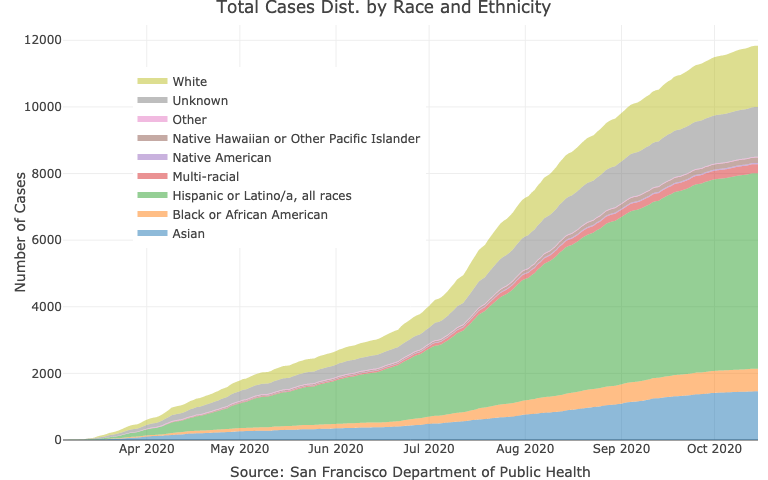
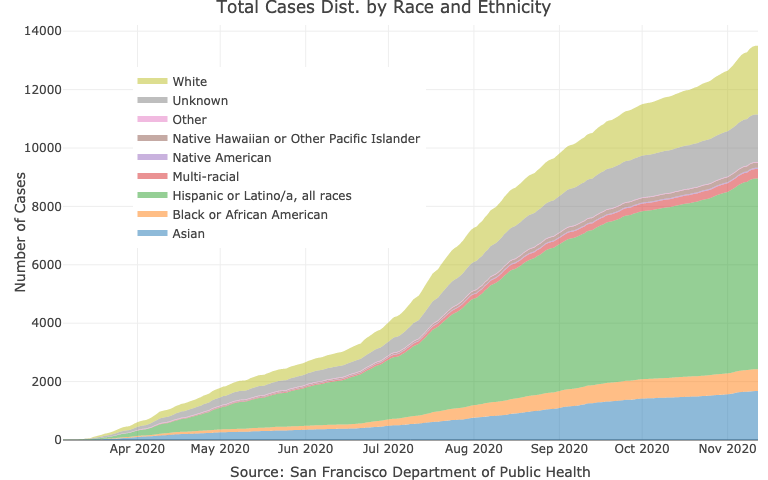
update the readme

diff --git a/README.md b/README.md
@@ -17,19 +17,19 @@ commit](https://img.shields.io/github/last-commit/RamiKrispin/covid19sf)](https:
 The covid19sf package provides a daily summary of the covid19 cases in
 San Francisco. The package includes the following datasets:
 
-  - `covid19sf_age` - Cases summarized by age group
-  - `covid19sf_demo` - Cases summarized by date, transmission and case
+-   `covid19sf_age` - Cases summarized by age group
+-   `covid19sf_demo` - Cases summarized by date, transmission and case
     disposition
-  - `covid19sf_gender` - Confirmed cases summarized by gender
-  - `covid19sf_geo` - Confirmed cases and deaths summarized by geography
-  - `covid19sf_homeless` - Confirmed cases by homelessness
-  - `covid19sf_hospital` - Hospital capacity data
-  - `covid19sf_hospitalizations` - Hospitalizations data
-  - `covid19sf_housing` - Alternative housing sites
-  - `covid19sf_summary` - Cases summarized by date, transmission and
+-   `covid19sf_gender` - Confirmed cases summarized by gender
+-   `covid19sf_geo` - Confirmed cases and deaths summarized by geography
+-   `covid19sf_homeless` - Confirmed cases by homelessness
+-   `covid19sf_hospital` - Hospital capacity data
+-   `covid19sf_hospitalizations` - Hospitalizations data
+-   `covid19sf_housing` - Alternative housing sites
+-   `covid19sf_summary` - Cases summarized by date, transmission and
     case disposition
-  - `covid19sf_test_loc` - Testing locations
-  - `covid19sf_tests` - Daily number of tests
+-   `covid19sf_test_loc` - Testing locations
+-   `covid19sf_tests` - Daily number of tests
 
 **Data soucre:** San Francisco, Department of Public Health - Population
 Health Division through the San Francisco [Opne Data protal
@@ -65,12 +65,12 @@ data(covid19sf_age)
 
 head(covid19sf_age)
 #>   specimen_collection_date age_group new_confirmed_cases cumulative_confirmed_cases        last_updated
-#> 1               2020-03-12     51-60                   2                          6 2020-10-16 14:15:02
-#> 2               2020-03-13     51-60                   3                          9 2020-10-16 14:15:02
-#> 3               2020-03-14     51-60                   1                         10 2020-10-16 14:15:02
-#> 4               2020-03-15     51-60                   0                         10 2020-10-16 14:15:02
-#> 5               2020-03-16     51-60                   8                         18 2020-10-16 14:15:02
-#> 6               2020-03-17     51-60                   3                         21 2020-10-16 14:15:02
+#> 1               2020-03-12     51-60                   2                          6 2020-11-13 14:15:03
+#> 2               2020-03-13     51-60                   3                          9 2020-11-13 14:15:03
+#> 3               2020-03-14     51-60                   1                         10 2020-11-13 14:15:03
+#> 4               2020-03-15     51-60                   0                         10 2020-11-13 14:15:03
+#> 5               2020-03-16     51-60                   8                         18 2020-11-13 14:15:03
+#> 6               2020-03-17     51-60                   3                         21 2020-11-13 14:15:03
 ```
 
 The following box-plot shows the distribution of the positive cases by
@@ -100,7 +100,7 @@ layout(title = "Case Dist. by Age Group",
 
 <img src="man/figures/age_dist1.png" width="100%" />
 
-Here is the overall distribution of cases by age group as of 2020-10-15:
+Here is the overall distribution of cases by age group as of 2020-11-12:
 
 ``` r
 library(dplyr)
@@ -131,12 +131,12 @@ data(covid19sf_tests)
 
 head(covid19sf_tests)
 #>   specimen_collection_date tests pos        pct neg indeterminate        last_updated
-#> 1               2020-02-28     2   0 0.00000000   2             0 2020-10-16 14:15:00
-#> 2               2020-03-01     2   0 0.00000000   2             0 2020-10-16 14:15:00
-#> 3               2020-03-02     2   0 0.00000000   2             0 2020-10-16 14:15:00
-#> 4               2020-03-03     7   2 0.28571429   5             0 2020-10-16 14:15:00
-#> 5               2020-03-04    11   0 0.00000000  11             0 2020-10-16 14:15:00
-#> 6               2020-03-05    19   6 0.31578947  13             0 2020-10-16 14:15:00
+#> 1               2020-02-28     2   0 0.00000000   2             0 2020-11-13 14:15:00
+#> 2               2020-03-01     2   0 0.00000000   2             0 2020-11-13 14:15:00
+#> 3               2020-03-02     2   0 0.00000000   2             0 2020-11-13 14:15:00
+#> 4               2020-03-03     8   2 0.25000000   6             0 2020-11-13 14:15:00
+#> 5               2020-03-04    12   0 0.00000000  12             0 2020-11-13 14:15:00
+#> 6               2020-03-05    23   6 0.26086957  17             0 2020-11-13 14:15:00
 ```
 
 The plot below shows the daily distribution of the results of the tests:
@@ -170,12 +170,12 @@ data(covid19sf_demo)
 
 head(covid19sf_demo)
 #>   specimen_collection_date race_ethnicity new_confirmed_cases cumulative_confirmed_cases        last_updated
-#> 1               2020-04-20          Asian                   4                        208 2020-10-16 14:15:02
-#> 2               2020-04-21          Asian                   5                        213 2020-10-16 14:15:02
-#> 3               2020-06-04          Asian                   5                        361 2020-10-16 14:15:02
-#> 4               2020-06-05          Asian                   2                        363 2020-10-16 14:15:02
-#> 5               2020-06-06          Asian                   1                        364 2020-10-16 14:15:02
-#> 6               2020-06-07          Asian                   0                        364 2020-10-16 14:15:02
+#> 1               2020-05-19          Asian                   0                        312 2020-11-13 14:15:03
+#> 2               2020-05-31          Asian                   5                        348 2020-11-13 14:15:03
+#> 3               2020-06-01          Asian                   5                        353 2020-11-13 14:15:03
+#> 4               2020-06-02          Asian                   3                        356 2020-11-13 14:15:03
+#> 5               2020-06-03          Asian                   2                        358 2020-11-13 14:15:03
+#> 6               2020-06-04          Asian                   5                        363 2020-11-13 14:15:03
 ```
 
 Below is a plot of the cumulative positive cases by race and ethnicity:
